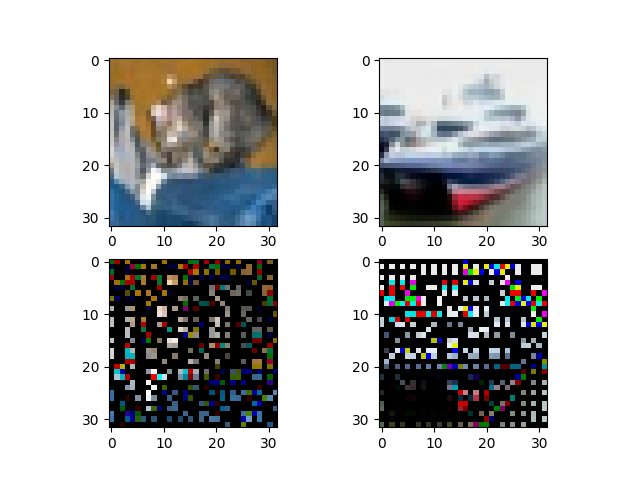
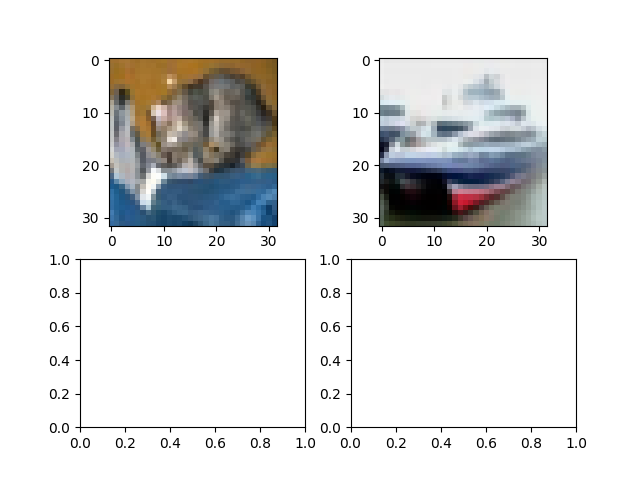
first succesfull lerning

diff --git a/src/nodes/nodes.py b/src/nodes/nodes.py
@@ -132,14 +132,12 @@ class Conv(Layer):
         if self.eval:
             return dloss_dout
 
-        m = dloss_dout.shape[0]
-
         self.db = np.sum(dloss_dout, axis=(0, 1, 2))
         
         Bs, Nh, Nw, Cout = dloss_dout.shape
         dloss_dout_r = dloss_dout.reshape((Bs, Nh * Nw, Cout))
         
-        self.dK = np.dot(self.BatchCols, dloss_dout_r)
+        self.dK = self.BatchCols @ dloss_dout_r
         self.dK = np.sum(self.dK, axis=0)
 
         dBatchColsT = np.dot(dloss_dout_r, self.kernel.T)
@@ -149,7 +147,6 @@ class Conv(Layer):
         dbatch = dpadded_batch[:, self.Ph:self.batch_shape[1] - self.Ph, self.Pw:self.batch_shape[2] - self.Pw, :]
 
         return dbatch
-
 
     def update_params(self, Kin: np.ndarray, b_in: np.ndarray) -> None:
         self.kernel = Kin
@@ -167,7 +164,66 @@ class Conv(Layer):
 
 
 class BatchNorm(Layer):
-    pass
+    def __init__(self, num_features: int, momentum: float = 0.9, epsilon: float = 1e-15, eval: bool = False):
+        self.eval = False
+        self.momentum = momentum
+        self.epsilon = epsilon
+        self.gamma = np.ones(num_features, dtype=np.float64)
+        self.beta = np.zeros(num_features, dtype=np.float64)
+        self.running_var = np.ones(num_features, dtype=np.float64)
+        self.running_mean = np.zeros(num_features, dtype=np.float64)
+        self.cache = None
+        self.dgamma = None
+        self.dbeta = None
+    
+    def __call__(self, batch: np.ndarray) -> np.ndarray:
+        if not self.eval:
+            mean = np.mean(batch, axis=(0, 1, 2))
+            var = np.var(batch, axis=(0, 1, 2))
+
+            x_hat = (batch - mean[None, None, None, :]) / np.sqrt(var[None, None, None, :] + self.epsilon)
+
+            out = self.gamma[None, None, None, :] * x_hat + self.beta[None, None, None, :]
+
+            self.running_mean = self.momentum * self.running_mean + (1 - self.momentum) * mean
+            self.running_var = self.momentum * self.running_var + (1 - self.momentum) * var
+
+            self.cache = (batch, mean, var, x_hat)
+        else:
+            x_hat = (batch - self.running_mean[None, None, None, :]) / np.sqrt(self.running_var[None, None, None, :] + self.epsilon)
+            out = self.gamma[None, None, None, :] * x_hat + self.beta[None, None, None, :]
+
+        return out
+    
+    def back(self, dloss_dout: np.ndarray) -> np.ndarray:
+        x, mean, var, x_hat = self.cache
+        batch_size = np.prod(x.shape[:-1])
+
+        self.dgamma = np.sum(dloss_dout * x_hat, axis=(0, 1, 2))  # Суммируем все, кроме Cin
+        self.dbeta = np.sum(dloss_dout, axis=(0, 1, 2))      # Суммируем все, кроме Cin
+
+        dx_hat = dloss_dout * self.gamma[None, None, None, :] #Добавили broadcasting
+        dvar = np.sum(dx_hat * (x - mean[None, None, None, :]) * (-0.5) * (var[None, None, None, :] + self.epsilon)**(-1.5), axis=(0, 1, 2))
+        dmean = np.sum(dx_hat * (-1) / np.sqrt(var[None, None, None, :] + self.epsilon), axis=(0, 1, 2)) + \
+                dvar * np.sum(-2 * (x - mean[None, None, None, :]), axis=(0, 1, 2)) / batch_size
+
+        dx = dx_hat / np.sqrt(var[None, None, None, :] + self.epsilon) + dvar * 2 * (x - mean[None, None, None, :]) / batch_size + dmean / batch_size
+
+        return dx
+
+    def update_params(self, gamma_in: np.ndarray, beta_in: np.ndarray) -> None:
+        self.gamma = gamma_in
+        self.beta = beta_in
+        
+    def zero_grad(self) -> None:
+        self.dgamma = np.zeros_like(self.gamma)
+        self.dbeta = np.zeros_like(self.beta)
+    
+    def parameters(self) -> tuple:
+        return self.gamma, self.beta
+    
+    def gradients(self) -> tuple:
+        return self.dgamma, self.dbeta
 
 
 class MaxPoolling(Layer):
@@ -262,7 +318,7 @@ class Fc(Layer):
     def __call__(self, X: np.ndarray) -> np.ndarray:
         if not self.eval:
             self.X = X
-        res = np.dot(self.W, X) + self.bias
+        res = np.dot(self.W, X.T) + self.bias[:, None]
         return res.T
     
     def back(self, dloss_dout: np.ndarray) -> np.ndarray:
@@ -270,11 +326,10 @@ class Fc(Layer):
             return dloss_dout
 
         if not self.eval:
-            m = dloss_dout.shape[0]
-            self.dW = np.dot(dloss_dout.T, self.X.T)
-            self.db = np.sum(dloss_dout.T, axis=1, keepdims=True).T
+            self.dW = np.dot(dloss_dout.T, self.X)
+            self.db = np.sum(dloss_dout, axis=0).T
 
-        dX = np.dot(self.W.T, dloss_dout.T)
+        dX = np.dot(dloss_dout, self.W)
         
         return dX
     

diff --git a/src/models/models.py b/src/models/models.py
@@ -87,3 +87,92 @@ class Conv:
     def zero_grad(self) -> None:
         self.cv1.zero_grad()
         self.cv2.zero_grad()
+
+
+class CNNSmall:
+    def __init__(self, eval: bool = False):
+        self.eval = eval
+
+        self.cv1 = nn.Conv(3, 32, (3, 3), (1, 1), eval=eval)
+        self.bn1 = nn.BatchNorm(32, eval=eval)
+        self.SiLU1 = nn.SiLU(eval=eval)
+        self.mp1 = nn.MaxPoolling((2, 2), (0, 0), (2, 2), eval=eval)
+        self.cv2 = nn.Conv(32, 64, (3, 3), (1, 1), eval=eval)
+        self.SiLU2 = nn.SiLU(eval=eval)
+        self.bn2 = nn.BatchNorm(64, eval=eval)
+        self.mp2 = nn.MaxPoolling((2, 2), (0, 0), (1, 1))
+        self.flatten = nn.Flatten(eval=eval)
+        self.fc1 = nn.Fc(14400, 128, eval=eval)
+        self.SiLU3 = nn.SiLU(eval=eval)
+        self.fc2 = nn.Fc(128, 10, eval=eval)
+        self.softmax = nn.Softmax(eval=eval)
+    
+    def forward(self, batch: np.ndarray) -> np.ndarray:
+        x = self.cv1(batch)
+        x = self.bn1(x)
+        x = self.SiLU1(x)
+        x = self.mp1(x)
+        x = self.cv2(x)
+        x = self.SiLU2(x)
+        x = self.bn2(x)
+        x = self.mp2(x)
+        x = self.flatten(x)
+        x = self.fc1(x)
+        x = self.SiLU3(x)
+        x = self.fc2(x)
+        x = self.softmax(x)
+        return x
+    
+    def backward(self, dloss: np.ndarray) -> np.ndarray:
+        d = self.softmax.back(dloss)
+        d = self.fc2.back(d)
+        d = self.SiLU3.back(d)
+        d = self.fc1.back(d)
+        d = self.flatten.back(d)
+        d = self.mp2.back(d)
+        d = self.bn2.back(d)
+        d = self.SiLU2.back(d)
+        d = self.cv2.back(d)
+        d = self.mp1.back(d)
+        d = self.bn1.back(d)
+        d = self.SiLU1.back(d)
+        d = self.cv1.back(d)
+        return d
+    
+    def parameters(self) -> list[tuple]:
+        return [self.cv1.parameters(),
+                self.bn1.parameters(),
+                self.cv2.parameters(),
+                self.bn2.parameters(),
+                self.fc1.parameters(),
+                self.fc2.parameters()]
+    
+    def gradients(self) -> list[tuple]:
+        return [self.cv1.gradients(),
+                self.bn1.gradients(),
+                self.cv2.gradients(),
+                self.bn2.gradients(),
+                self.fc1.gradients(),
+                self.fc2.gradients()]
+        
+    def update_params(self,
+                      cv1_p: tuple,
+                      bn1_p: tuple,
+                      cv2_p: tuple,
+                      bn2_p: tuple,
+                      fc1_p: tuple,
+                      fc2_p: tuple) -> None:
+        self.cv1.update_params(*cv1_p)
+        self.bn1.update_params(*bn1_p)
+        self.cv2.update_params(*cv2_p)
+        self.bn2.update_params(*bn2_p)
+        self.fc1.update_params(*fc1_p)
+        self.fc2.update_params(*fc2_p)
+        
+    def zero_grad(self) -> None:
+        self.cv1.zero_grad()
+        self.bn1.zero_grad()
+        self.cv2.zero_grad()
+        self.bn2.zero_grad()
+        self.fc1.zero_grad()
+        self.fc2.zero_grad()

diff --git a/main.py b/main.py
@@ -4,8 +4,11 @@ import pickle
 import numpy as np
 import matplotlib.pyplot as plt
 
+import src.loss.loss as criterion
+import src.optim.optim as optim
 import src.nodes.nodes as nn
 import src.functional.functional as F
+import src.models.models as M
 
 
 def unpickle(filepath: str) -> dict:
@@ -14,47 +17,48 @@ def unpickle(filepath: str) -> dict:
     return meta
 
 
-class Model:
-    def __init__(self, eval: bool = False):
-        self.conv1 = nn.Conv(3, 32, (3, 3), (1, 1), eval=eval)
-        self.SiLU1 = nn.SiLU(eval=eval)
-    
-    def __call__(self, batch: np.ndarray) -> np.ndarray:
-        x = self.conv1(batch)
-        x = self.SiLU1(x)
-        return x
-    
-    def back(self):
-        pass
-
-
 def main() -> None:
     num_classes = 10
     classes = ["airplane", "automobile", "bird", "cat", "deer", "dog", "frog", "horse", "ship", "truck"]
 
     test_batch = unpickle("data/test_batch")
 
-    test_batch_labels = test_batch[b"labels"]
+    test_batch_labels = np.array(test_batch[b"labels"])
     test_batch_data = test_batch[b"data"].reshape((-1, 3, 32, 32))
     test_batch_data = test_batch_data.transpose((0, 2, 3, 1))
     test_batch_data = test_batch_data / 255
     print(test_batch_data.shape)
     
-    batch = test_batch_data[:2]
+    batch = test_batch_data[:5]
+    labels = test_batch_labels[:5]
+    print(labels)
+    one_hot = np.zeros((5, num_classes), dtype=np.float64)
+    one_hot[np.arange(5), labels.astype(np.uint32)] = 1
+    print(one_hot)
     
     batch = batch - batch.min()
     batch = batch / batch.max()
     
-    pool = nn.MaxPoolling((2, 2), (0, 0), (2, 2))
-    pooled_batch = pool(batch)
-    back_batch = pool.back(pooled_batch)
+    model = M.CNNSmall()
+    optimizer = optim.SGD(0.001)
 
+    for _ in range(100):
+        pred = model.forward(batch)
+        print(np.round(pred))
+        loss, dloss = criterion.CEL(one_hot, pred)
+        print(loss)
+        model.backward(dloss)
+        
+        new_param = optimizer.step(model.parameters(), model.gradients())
+        
+        model.update_params(*new_param)
+    
     fig, ax = plt.subplots(nrows=2, ncols=2)
     
     ax[0][0].imshow(test_batch_data[0])
     ax[0][1].imshow(test_batch_data[1])
-    ax[1][0].imshow(back_batch[0])
-    ax[1][1].imshow(back_batch[1])
+    # ax[1][0].imshow(back_batch[0])
+    # ax[1][1].imshow(back_batch[1])
 
     plt.savefig("sample.png")
 

diff --git a/src/loss/loss.py b/src/loss/loss.py
@@ -1,20 +1,28 @@
 import numpy as np
 
 
-def binary_cross_entropy(y_true, y_pred):
-    epsilon = 1e-15
-    y_pred = np.clip(y_pred, epsilon, 1 - epsilon)
-
-    loss = -(y_true * np.log(y_pred) + (1 - y_true) * np.log(1 - y_pred))
-    return np.sum(loss)
-
-
-def binary_cross_entropy_derivative(y_true, y_pred):
-    epsilon = 1e-15
-    y_pred = np.clip(y_pred, epsilon, 1 - epsilon)
-
-    return (y_pred - y_true)
-  
-
 def BCE(y_true, y_pred):
-    return binary_cross_entropy(y_true, y_pred), binary_cross_entropy_derivative(y_true, y_pred)
+    epsilon = 1e-15
+    y_pred = np.clip(y_pred, epsilon, 1 - epsilon)
+    loss = -np.mean(y_true * np.log(y_pred) + (1 - y_true) * np.log(1 - y_pred))
+    gradient = (y_pred - y_true) / (y_pred * (1 - y_pred))
+    
+    return loss, gradient
+
+
+def CEL(y_true, y_pred):
+    epsilon = 1e-15
+    y_pred = np.clip(y_pred, epsilon, 1 - epsilon)
+    loss = -np.mean(np.sum(y_true * np.log(y_pred), axis=1))
+    gradient =  (y_pred - y_true) / y_true.shape[0]
+    
+    return loss, gradient
+
+
+def MSE(y_true, y_pred):
+    epsilon = 1e-15
+    y_pred = np.clip(y_pred, epsilon, 1 - epsilon)
+    loss = np.mean((y_true - y_pred) ** 2)
+    gradient = 2 * (y_pred - y_true) / y_true.size
+    
+    return loss, gradient

diff --git a/src/functional/functional.py b/src/functional/functional.py
@@ -63,3 +63,26 @@ def sigmoid(data: np.ndarray) -> np.ndarray:
 def softmax(data: np.ndarray) -> np.ndarray:
     exp_data = np.exp(data - np.max(data, axis=-1, keepdims=True))
     return exp_data / np.sum(exp_data, axis=-1, keepdims=True)
+
+
+def CNG(w, f, epsilon=1e-6):
+    # Compute Numerical Gradient
+    grad = np.zeros_like(w)
+    it = np.nditer(w, flags=["multi_index"], op_flags=["readwrite"])
+
+    while not it.finished:
+        ix = it.multi_index
+        old_value = w[ix]
+
+        w[ix] = old_value + epsilon
+        pos = f(w)
+
+        w[ix] = old_value - epsilon
+        neg = f(w)
+
+        w[ix] = old_value
+
+        grad[ix] = (pos - neg) / (2 * epsilon)
+        it.iternext()
+    
+    return grad

diff --git a/test.py b/test.py
@@ -36,8 +36,6 @@ if __name__ == "__main__":
     tr = np.array([[[[1, 2, 3]] * 4] * 4], dtype=np.float64)
     print(tr.shape)
 
-    model = m.Conv()
-
-    pred = model.forward(tr)
-    print("pred:", pred.shape)
-    print(model.backward(pred).shape)
+    lt = np.array([[[0], [1], [0], [0]], [[1], [1], [0], [1]]], dtype=np.float64)
+    pt = np.array([[[1], [0], [0], [0]], [[1], [0], [1], [1]]], dtype=np.float64)
+    print(loss.CEL(lt, pt))
